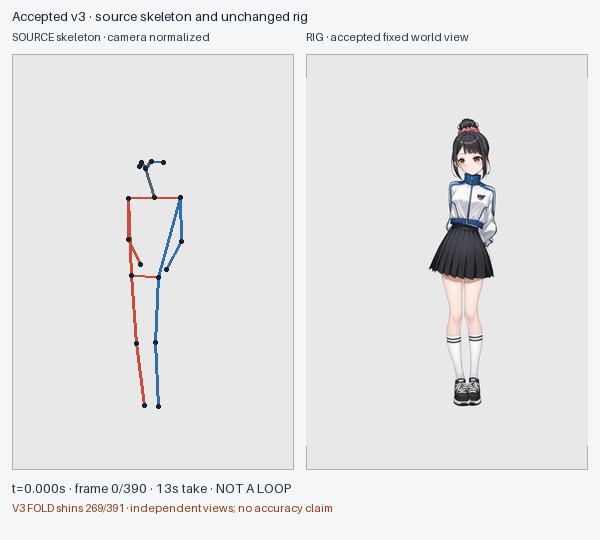
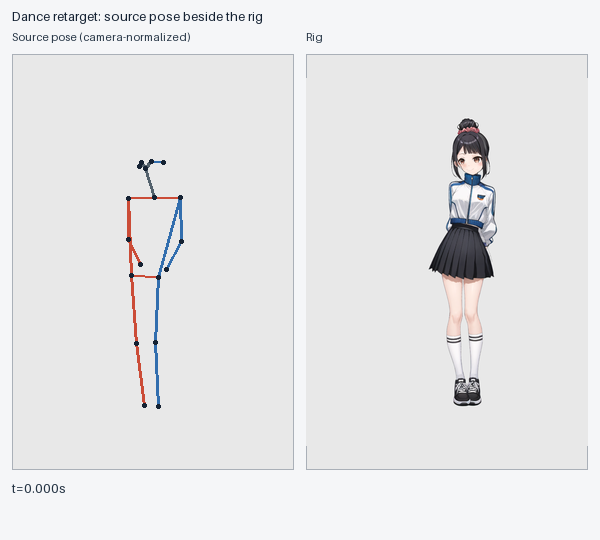
fix(demo): keep diagnostics outside the dance pixels
Use plain panel labels and timestamps while preserving every figure pixel and the accepted native digest. Reuse the verified diagnostic for composition-only updates.

Changed region(s): [[0.03, 0.0, 0.51, 0.0889], [0.03, 0.8889, 0.57, 0.9481], [0.51, 0.0593, 0.78, 0.0889]]

diff --git a/tools/visible-retarget.py b/tools/visible-retarget.py
@@ -210,7 +210,7 @@ def stage_record(corpus, replay, render, diagnostic_log):
     return result, diagnostics
 
 
-def compose(corpus, replay, media):
+def compose(corpus, replay, media, reuse_diagnostic=None):
     from PIL import Image, ImageDraw, ImageFont, __version__ as pillow_version
     require(pillow_version == '12.2.0', 'PILLOW_PIN', f'expected 12.2.0, found {pillow_version}')
     sequence_path = corpus / 'accepted/sequence.json'
@@ -221,14 +221,24 @@ def compose(corpus, replay, media):
     times, frames = source_track(seq)
     require(times[0] == 0 and times[-1] == 13, 'SOURCE_TIME', 'the baseline take must cover 0..13 seconds')
     verify_replay(corpus, replay)
-    viewport_path = diagnostic_render(corpus, replay, media.parent / (media.name + '-diagnostic'))
+    if reuse_diagnostic is None:
+        viewport_path = diagnostic_render(corpus, replay, media.parent / (media.name + '-diagnostic'))
+    else:
+        # Reuse only the exact accepted diagnostic already bound in the public record.
+        expected = json.loads((ROOT / 'docs/demos/visible-retarget/record.json').read_text())
+        require(expected['acceptedModelSHA256'] == MODEL and expected['acceptedNativeFramesSHA256'] == NATIVE, 'DIAGNOSTIC_PIN', 'published diagnostic belongs to a different build')
+        viewport_path = reuse_diagnostic / 'frames.json'
     metadata = json.loads(viewport_path.read_text())
     sets = [s for s in metadata['sets'] if s['animation'] == 'zero-two-r3-hand']
     require(len(sets) == 1 and sets[0]['fps'] == FPS and sets[0]['written'] == FRAME_COUNT and sets[0]['duration'] == 13, 'RENDER_TIME', 'the accepted render time base changed')
     render = viewport_path.parent / sets[0]['dir']
+    if reuse_diagnostic is not None:
+        require(digest(render / 'folds.json') == expected['stages']['currentV3Fold']['foldsSHA256'], 'DIAGNOSTIC_HASH', 'reused fold measurement differs from the published record')
     require(digest(replay / 'build/skeleton.model.json') == MODEL, 'MODEL_HASH', 'final accepted model differs')
     require(metadata['viewport'] == json.loads((corpus / 'accepted-dance/viewport.json').read_text())['viewport'], 'RIG_VIEW', 'accepted fixed viewport differs')
-    stages, diagnostics = stage_record(corpus, replay, render, media.parent / 'logs/v3-fold-render.txt')
+    native_digest(render)
+    diagnostic_log = viewport_path.parent.parent / 'logs/v3-fold-render.txt'
+    stages, diagnostics = stage_record(corpus, replay, render, diagnostic_log)
     media.mkdir(parents=True)
     (media / 'diagnostics.txt').write_text(diagnostics)
     view = source_view(frames)
@@ -245,9 +255,9 @@ def compose(corpus, replay, media):
         sampling.append({'renderFrame': i, **alignment})
         canvas = Image.new('RGB', SIZE, (245, 246, 248))
         draw = ImageDraw.Draw(canvas)
-        draw.text((12, 8), 'Accepted v3 · source skeleton and unchanged rig', fill='#152233', font=font)
-        draw.text((12, 30), 'SOURCE skeleton · camera normalized', fill='#273646', font=small)
-        draw.text((306, 30), 'RIG · accepted fixed world view', fill='#273646', font=small)
+        draw.text((12, 8), 'Dance retarget: source pose beside the rig', fill='#152233', font=font)
+        draw.text((12, 30), 'Source pose (camera-normalized)', fill='#273646', font=small)
+        draw.text((306, 30), 'Rig', fill='#273646', font=small)
         for x, y, w, h in PANELS:
             draw.rectangle((x, y, x + w - 1, y + h - 1), fill=(232, 232, 232), outline='#aab0b8')
         for a, b in EDGES:
@@ -263,8 +273,7 @@ def compose(corpus, replay, media):
             rig = rig.resize((round(rig.width * k), round(rig.height * k)), Image.Resampling.LANCZOS)
             canvas.paste(rig, (x + (w - rig.width) // 2, y + (h - rig.height) // 2))
         draw = ImageDraw.Draw(canvas)
-        draw.text((12, 480), f't={i/FPS:.3f}s · frame {i}/390 · 13s take · NOT A LOOP', fill='#253444', font=font)
-        draw.text((12, 501), 'V3 FOLD shins 269/391 · independent views; no accuracy claim', fill='#8b3b14', font=small)
+        draw.text((12, 480), f't={i/FPS:.3f}s', fill='#253444', font=font)
         canvas.save(frame_dir / f'f{i:04d}.png')
         if i == 0: canvas.save(media / 'pose-dance.png')
         if i in sheet_indices: thumbs.append(canvas.resize((300, 270), Image.Resampling.LANCZOS))
@@ -334,6 +343,7 @@ def main():
     parser.add_argument('--out',required=True)
     parser.add_argument('--source',help='Previously fetched, hash-verified source/dancer for compose')
     parser.add_argument('--replay',help='Completed accepted v3 replay for compose')
+    parser.add_argument('--reuse-diagnostic', help='Read-only diagnostic render matching the published fold hash, accepted viewport/time base and native PNG digest')
     parser.add_argument('--reuse-replay',help='Read-only accepted v3 replay cache; exact canonical/build/native/runtime verification required')
     args=parser.parse_args();out=Path(args.out).resolve()
     if args.command=='selftest': selftest(out);return
@@ -342,7 +352,7 @@ def main():
     if args.command=='compose':
         require(args.source is not None and args.replay is not None,'COMPOSE_INPUT','--source and --replay are required')
         corpus=Path(args.source).resolve();replay=Path(args.replay).resolve()
-        compose(corpus,replay,out);return
+        compose(corpus,replay,out,Path(args.reuse_diagnostic).resolve() if args.reuse_diagnostic else None);return
     out.mkdir(parents=True)
     corpus=fetch(out/'source')
     checked=real_reader(corpus/'accepted/sequence.json');write_json(out/'reader-preflight.json',checked)
@@ -352,7 +362,7 @@ def main():
         replay=out/'replay'
         run_command('accepted-reproduction',['sh',str(corpus/'build-accepted-dance.sh'),str(replay)],ROOT,out/'logs')
     verify_replay(corpus,replay)
-    compose(corpus,replay,out/'media')
+    compose(corpus,replay,out/'media',Path(args.reuse_diagnostic).resolve() if args.reuse_diagnostic else None)
 
 
 if __name__ == '__main__':

diff --git a/docs/demos/visible-retarget/README.md b/docs/demos/visible-retarget/README.md
@@ -53,7 +53,11 @@ Incremental `run --reuse-replay <completed-v3-output>` may reuse an immutable
 accepted replay only after the same exact canonical/build/native/runtime
 checks. `compose --source <source/dancer> --replay <completed-v3-output> --out
 <new-media-dir>` uses those checks too. The optional cache is never modified
-and is not required by the default public recipe. Large native frames and
+and is not required by the default public recipe. To recompose pixel copy only,
+`compose --reuse-diagnostic <completed-diagnostic-dir>` can reuse the already
+measured v3 diagnostic: its published fold hash, accepted native PNG digest,
+time base and viewport are verified before use. It does not rerun the native
+render or change the recorded measurement stage. Large native frames and
 runtime stay remote; only final small media and records need recovery.
 
 ## Timing and views
@@ -80,8 +84,8 @@ one frame. There is no loop attribute or loop-seam claim.
 - **Accepted v3 gate 23 PASS / 0 FAIL / 13 SKIP / 14 excluded:** actual build
   log bound to verified source/model. Reuse is explicit; skips and exclusions
   are not passes.
-- **Current v3 FOLD:** freshly read on the unchanged build. Shins 269/391 is
-  shown as a known fold. A contradiction is reported, not tuned away. The
+- **Current v3 FOLD diagnostic:** measured on the accepted hand-passed build.
+  Shins 269/391 is a diagnostic, not a gate. A contradiction is reported, not tuned away. The
   preview prints the verbatim raw fold line beside the other stage records.
 - Old v1 foot-goal residual and FOLD 269/391 remain historical fields. New v3
   original-pose LAND, foot-goal residual, all-rig SEAM and same-detector
@@ -94,31 +98,48 @@ consumer is separately owned and is not claimed landed here.
 ## Completed validation
 
 [record.json](record.json), [verification.json](verification.json),
-[diagnostics.txt](diagnostics.txt) and [sampling.json](sampling.json) describe
-the actual v3 run. Typecheck, lint, package dry run, reader fixtures and Nova
-pipeline exited 0. The fresh v3 fold reading is 269/391 and its native PNG
-digest exactly matches the accepted target. MP4 is 820,544 bytes, SHA-256
[1 lines of base64/hex data omitted]
-WebM is 639,175 bytes, SHA-256
[1 lines of base64/hex data omitted]
-The videos remain small handoff artifacts for the site sibling; their source
-and encoding commands are recorded here rather than pointing at an unlanded
-site URL. [Contact sheet](contact-sheet.png).
+[diagnostics.txt](diagnostics.txt) and [sampling.json](sampling.json) bind the
+accepted v3 measurement and the later pixel-copy repair. Original typecheck,
+lint, package dry run, reader controls and v3 pipeline exited 0. The accepted
+hand-passed v3 FOLD269/391 is a diagnostic, not a gate. This repair reuses that
+immutable diagnostic and native PNG digest; it performs no native render,
+build, retarget, generation or hand work.
 
-Actual browser verification measured 600×540 CSS pixels, playback time
-0.042512→10.889868 seconds, then ended/paused at 13.033333 seconds, with loop
-and autoplay false, no media error and no warning/error logs. Both figures
-and labels were readable; the owned tab and server were closed. The source
-sampling hash is byte-identical to the preserved v1 sampling, while the rig
-and media bind the new v3 source.
+All 391 frames retain byte-identical figure-panel pixels. Every non-media
+record field, sampling byte and diagnostic byte remains exact. The title,
+panel labels and timestamp are the only text in the video pixels; version,
+non-loop and diagnostic details remain in this documentation and records.
[1 lines of base64/hex data omitted]
+MP4 is 793,736 bytes, SHA-256
[1 lines of base64/hex data omitted]
+WebM is 603,729 bytes, SHA-256
[1 lines of base64/hex data omitted]
+Small media are handed to the separate site sibling; no unlanded site URL is
+claimed. [Revised contact sheet](contact-sheet.png).
+
+Actual revised-media browser verification measured 600×540 CSS pixels,
+playback 0.010050→4.493015 seconds, then ended/paused at
+13.033333 seconds. Loop and autoplay were false; no media error or
+warning/error logs occurred. Both figures and revised labels were readable;
+the owned tab and server were closed. The source sampling remains byte-exact.
 
 A private preflight wrapper used the wrong relative fixture path and failed
 with ENOENT; submission proceeded before that wrapper was corrected. The
 earlier actual reader/selftest had passed. The corrected absolute-path dry
 run passed after submission; this ordering exception is retained separately
-from the successful Nova and browser measurements in verification.json.
+from the successful Nova and browser measurements in verification.json. This
+violated the mandatory dry-run-before-first-Nova-submission rule; the private
+final checkpoint records it prominently in CLOSE RETRO.
 
-The exact measured pipeline and diagnostic argument lists are in
+The first pixel-copy repair attempt failed before encoding because the cache
+fold path was resolved at the diagnostic root. A local regression reproduced
+that failure and passed after resolving the actual metadata set directory.
+The absolute-path dry run and parent coordination gate passed before the
+second repair submission, which completed composition and encoding. Both
+attempts and their exact chronology remain in verification.json.
+
+The original measured pipeline and diagnostic argument lists are in
 verification.json (`actualPipelineCommand`, `actualDiagnosticCommand`). Named
 workspace/cache placeholders replace only private path prefixes; flags and
-values are unchanged. The default public command above needs no cache.
+values are unchanged. The later actual composition command and reuse proof
+are recorded in `pixelCopyRepair`. The default public command needs no cache.
